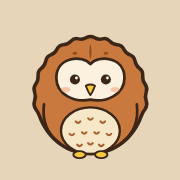
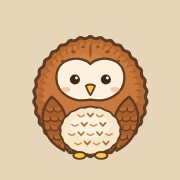
モリフクロウのふわもこ感を強化(毛束・うろこ羽・V字模様・やわらかい輪郭)
Claude-Session: https://claude.ai/code/session_016VAcHiBzAcG93EbvHUCsk9

Changed region(s): [[0.1667, 0.1944, 0.8333, 0.8889]]

diff --git a/sw.js b/sw.js
@@ -3,7 +3,7 @@
 // 一度読み込んだファイルをスマホの中にコピー(キャッシュ)しておきます。
 // 電波があるときは最新版を取りに行き、ないときはコピーを使います。
 
-const CACHE = 'kintore-v11';
+const CACHE = 'kintore-v12';
 const FILES = ['./', './index.html', './style.css', './app.js', './manifest.json', './icon-180.png', './icon-192.png', './icon-512.png', './owl.svg'];
 
 self.addEventListener('install', (e) => {
